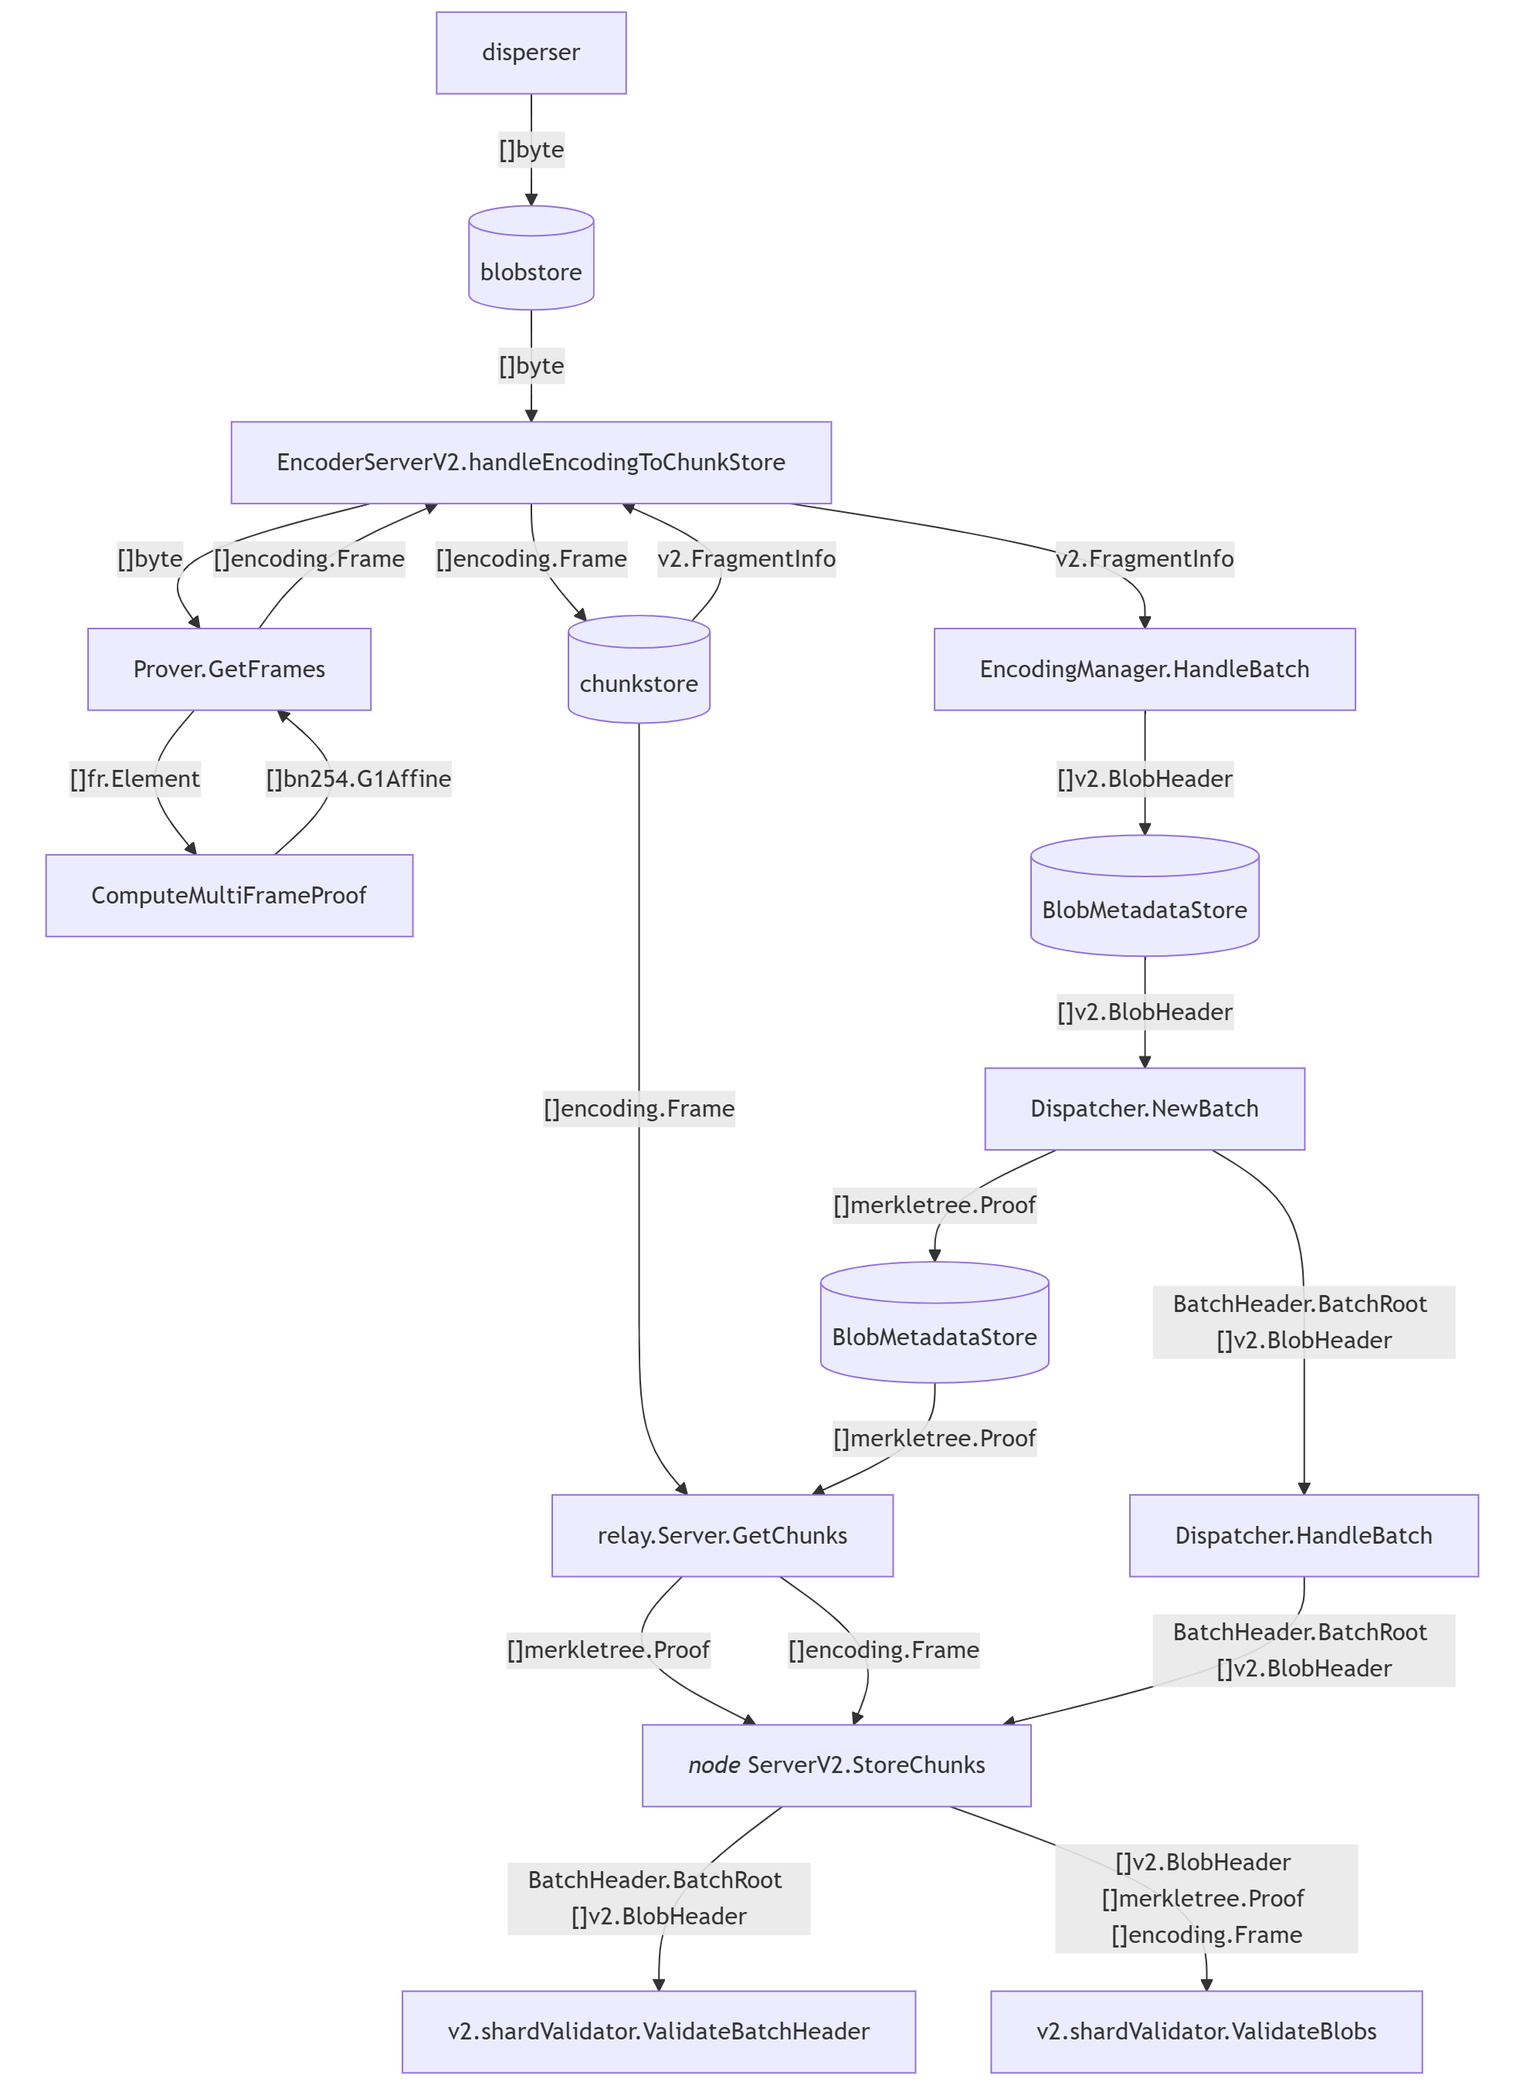
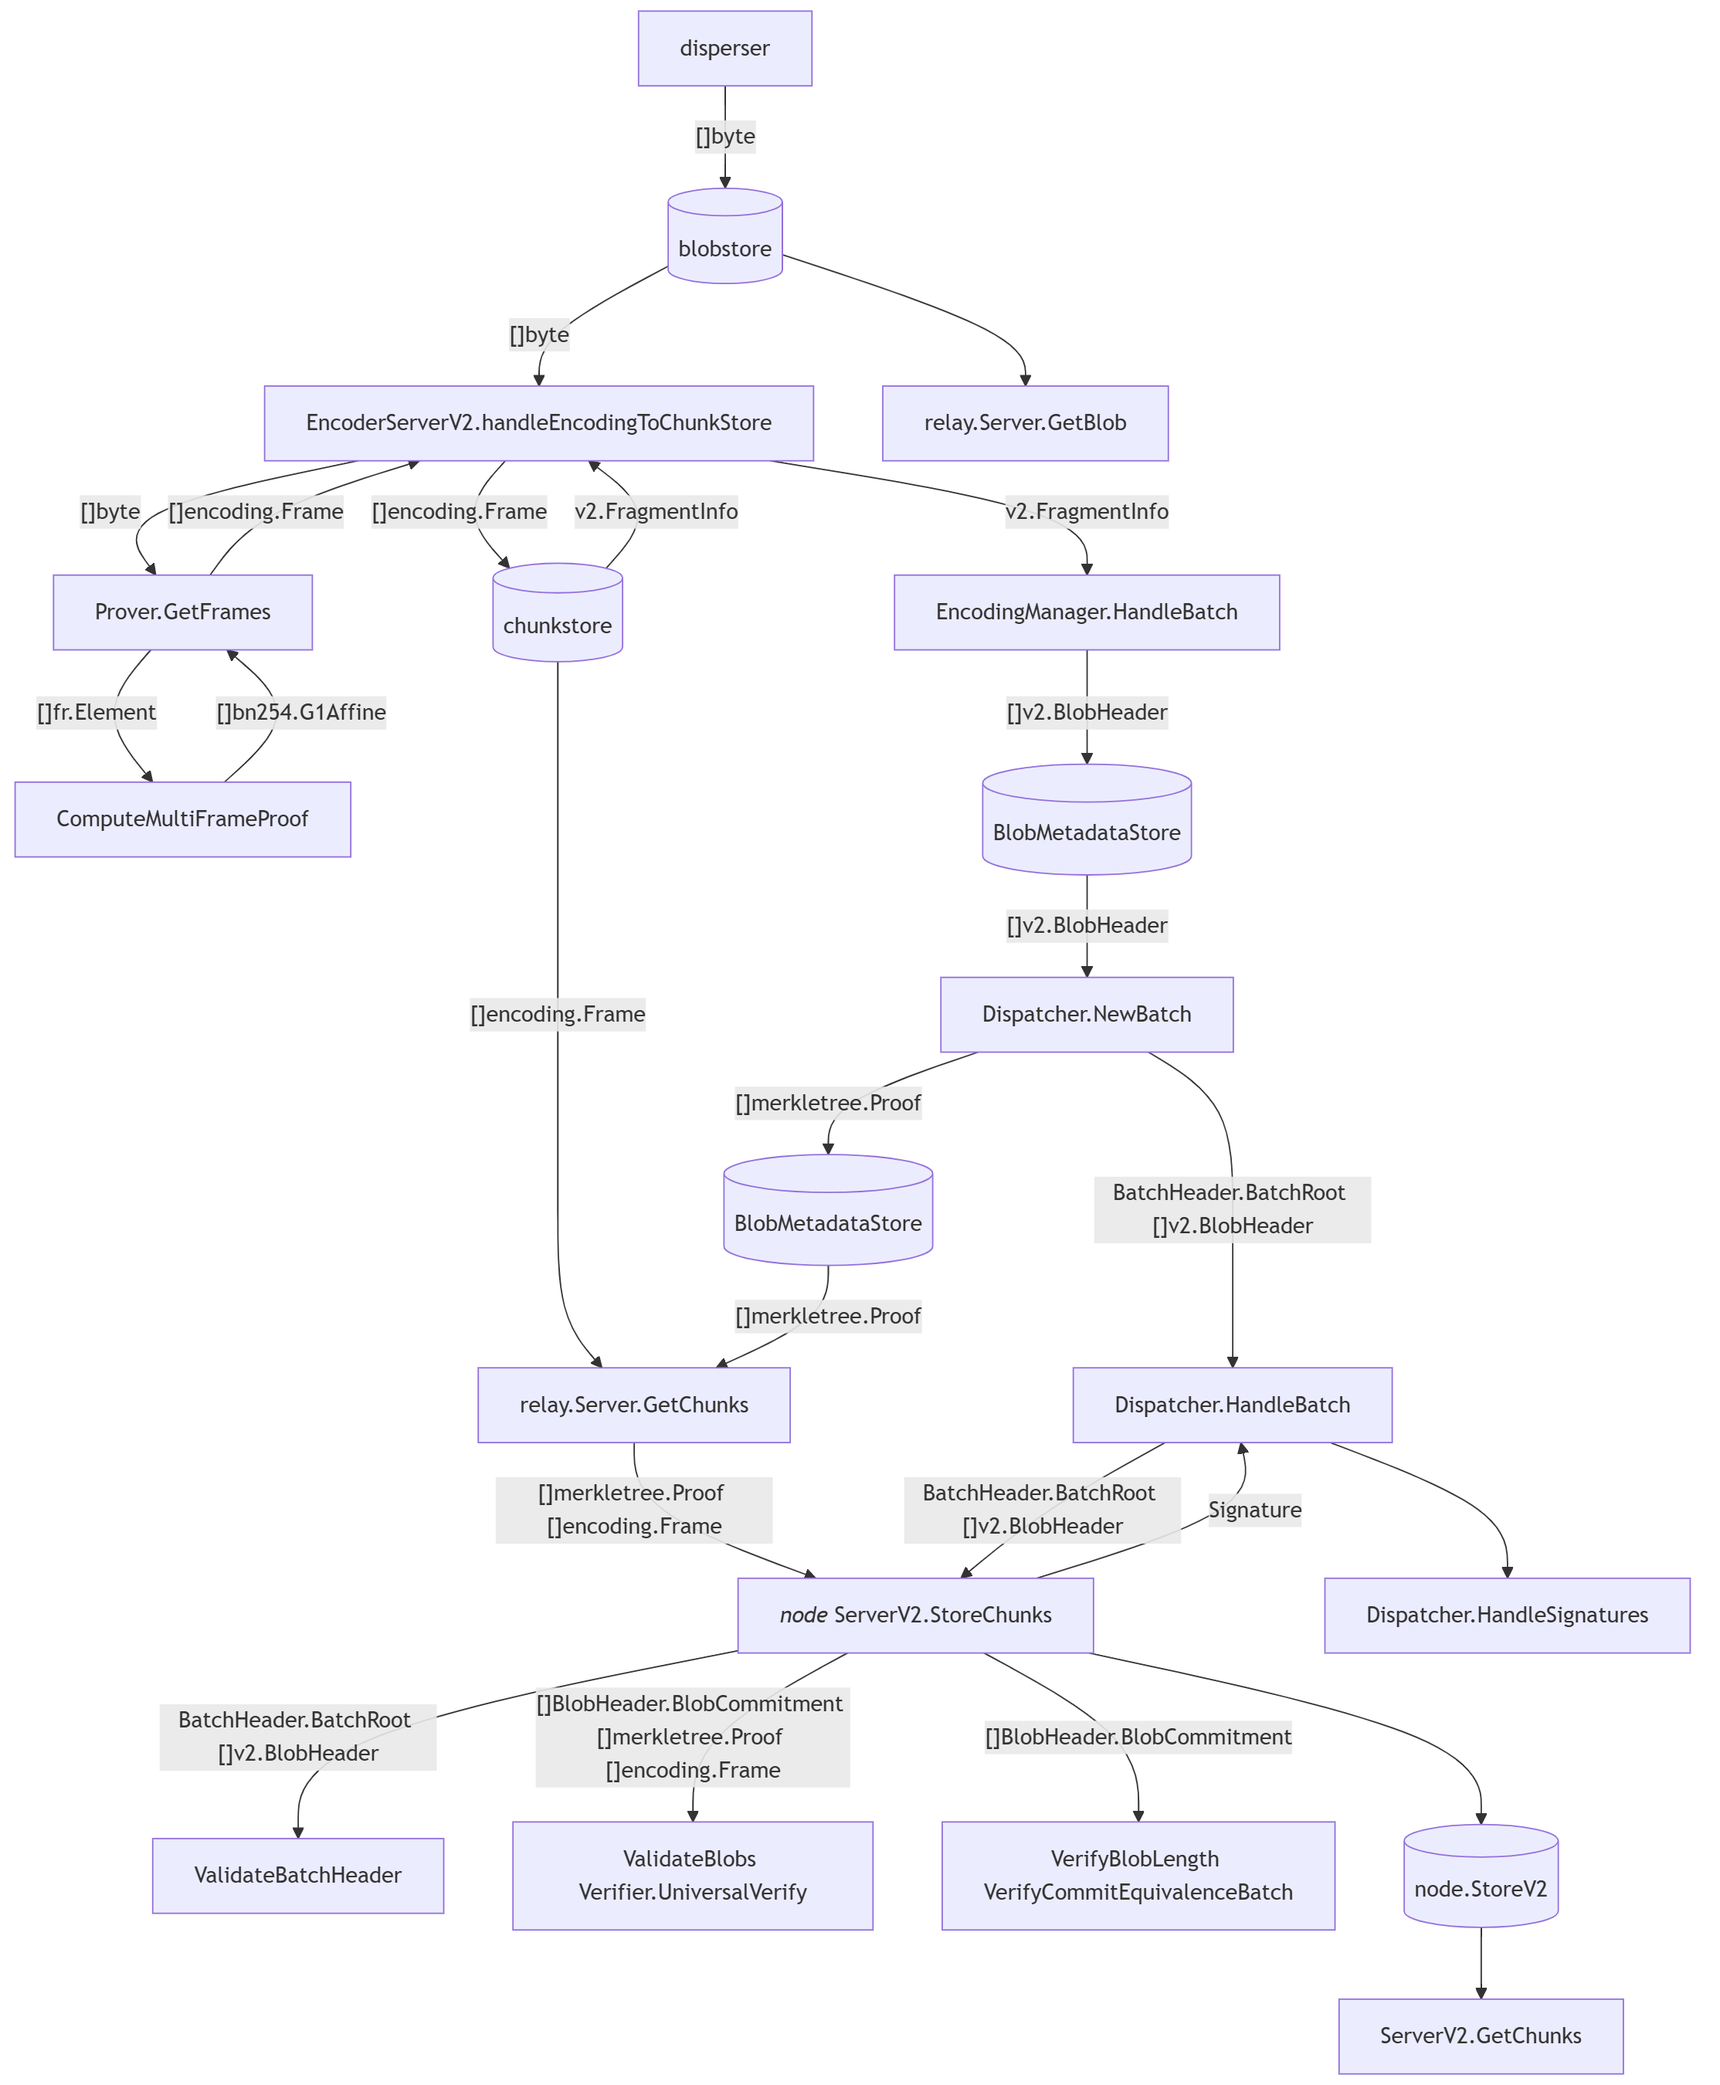
update dataflow

diff --git a/docs/dataflow.md b/docs/dataflow.md
@@ -4,6 +4,7 @@ flowchart TB
 disperser -- []byte --> blobstore
 
 blobstore -- []byte --> encserver
+blobstore --> relay.Server.GetBlob
 
 encserver -- []byte --> prover
 prover -- []encoding.Frame --> encserver
@@ -13,29 +14,30 @@ prover1 -- []bn254.G1Affine --> prover
 %% prover1: polyFr ->(GetSlicesCoeff) coeffStore -> sumVec -> fft_inv -> fft -> proof
 %% fft: fast compute polynomial value using Toeplitz Matrix
 
+encserver -- v2.FragmentInfo --> encmgr
+
+relay -- []merkletree.Proof []encoding.Frame --> node
+
+dispatcher -- BatchHeader.BatchRoot []v2.BlobHeader --> node
+node -- Signature --> dispatcher
+
 encserver -- []encoding.Frame --> chunkstore
 chunkstore -- v2.FragmentInfo --> encserver
 chunkstore -- []encoding.Frame --> relay
 
-encserver -- v2.FragmentInfo --> encmgr
+node -- BatchHeader.BatchRoot []v2.BlobHeader --> validate1 
+node -- []BlobHeader.BlobCommitment []merkletree.Proof []encoding.Frame --> validate2
+node -- []BlobHeader.BlobCommitment --> validate3
+node --> batchstore --> ServerV2.GetChunks
+
 encmgr -- []v2.BlobHeader --> certstore
 certstore -- []v2.BlobHeader --> newbatch
 
 newbatch -- BatchHeader.BatchRoot []v2.BlobHeader --> dispatcher
+dispatcher --> Dispatcher.HandleSignatures
+
 newbatch -- []merkletree.Proof --> verifstore 
 verifstore -- []merkletree.Proof --> relay
-
-relay -- []merkletree.Proof --> node
-relay -- []encoding.Frame --> node
-
-dispatcher -- BatchHeader.BatchRoot []v2.BlobHeader --> node
-%% node -- Signature --> dispatcher
-
-%% check header.BatchRoot
-node -- BatchHeader.BatchRoot []v2.BlobHeader --> validate1 
-
-%% 
-node -- []v2.BlobHeader []merkletree.Proof []encoding.Frame --> validate2
 
 newbatch[Dispatcher.NewBatch]
 dispatcher[Dispatcher.HandleBatch]
@@ -46,8 +48,10 @@ encserver[EncoderServerV2.handleEncodingToChunkStore]
 
 relay[relay.Server.GetChunks]
 node[*node* ServerV2.StoreChunks]
-validate1[v2.shardValidator.ValidateBatchHeader]
-validate2[v2.shardValidator.ValidateBlobs]
+batchstore[(node.StoreV2)]
+validate1[ValidateBatchHeader]
+validate2[ValidateBlobs Verifier.UniversalVerify]
+validate3[VerifyBlobLength VerifyCommitEquivalenceBatch]
 
 blobstore[(blobstore)]
 chunkstore[(chunkstore)]

diff --git a/docs/contributing.md b/docs/contributing.md
@@ -27,7 +27,7 @@ In general, the `core` project contains implementation of all the important busi
 ├── <a href="../tools">tools</a>: General tools such as traffic generator
 </pre>
 
-# Data Flow Diagram
+# Data flow diagram
 
 You can convert [Mermaid source code](dataflow.md) into an image using the [VS Code extention](https://marketplace.visualstudio.com/items?itemName=bierner.markdown-mermaid) or the [Mermaid Live Editor](https://mermaid.live).
 
@@ -35,22 +35,20 @@ You can convert [Mermaid source code](dataflow.md) into an image using the [VS C
 
 # Data structures
 ```
-data: []byte
-
 encoding.Frame: 
     Proof: bn254.G1Affine
     Coeffs: fr.Element
 
 v2.Batch:
     ReferenceBlockNumber: uint64
-    []v2.BlobCertificate:
-        v2.BlobHeader
+    []v2.BlobCertificate: v2.BlobHeader
 
-v2.BlobVerificate:
-    []RelayKey: uint16
-
-v2.BlobVerificationInfo:
-    serialized merkletree.Proof
+v2.BlobHeader:
+    BlobCommitment
+        Commitment: []byte
+        LengthCommitment: []byte
+        LengthProof: []byte
+        Length: uint32
 ```
 
 # Finite field elements
